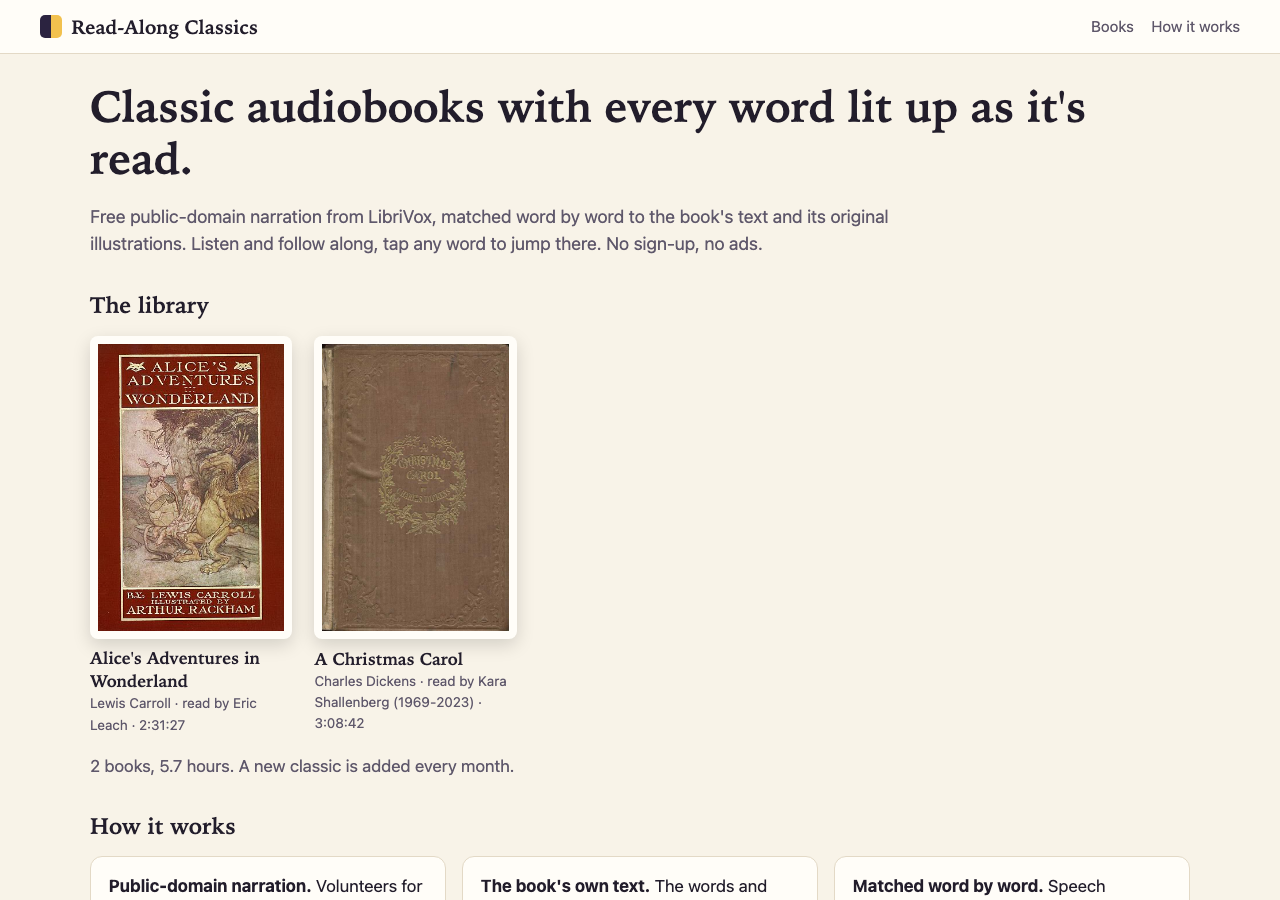
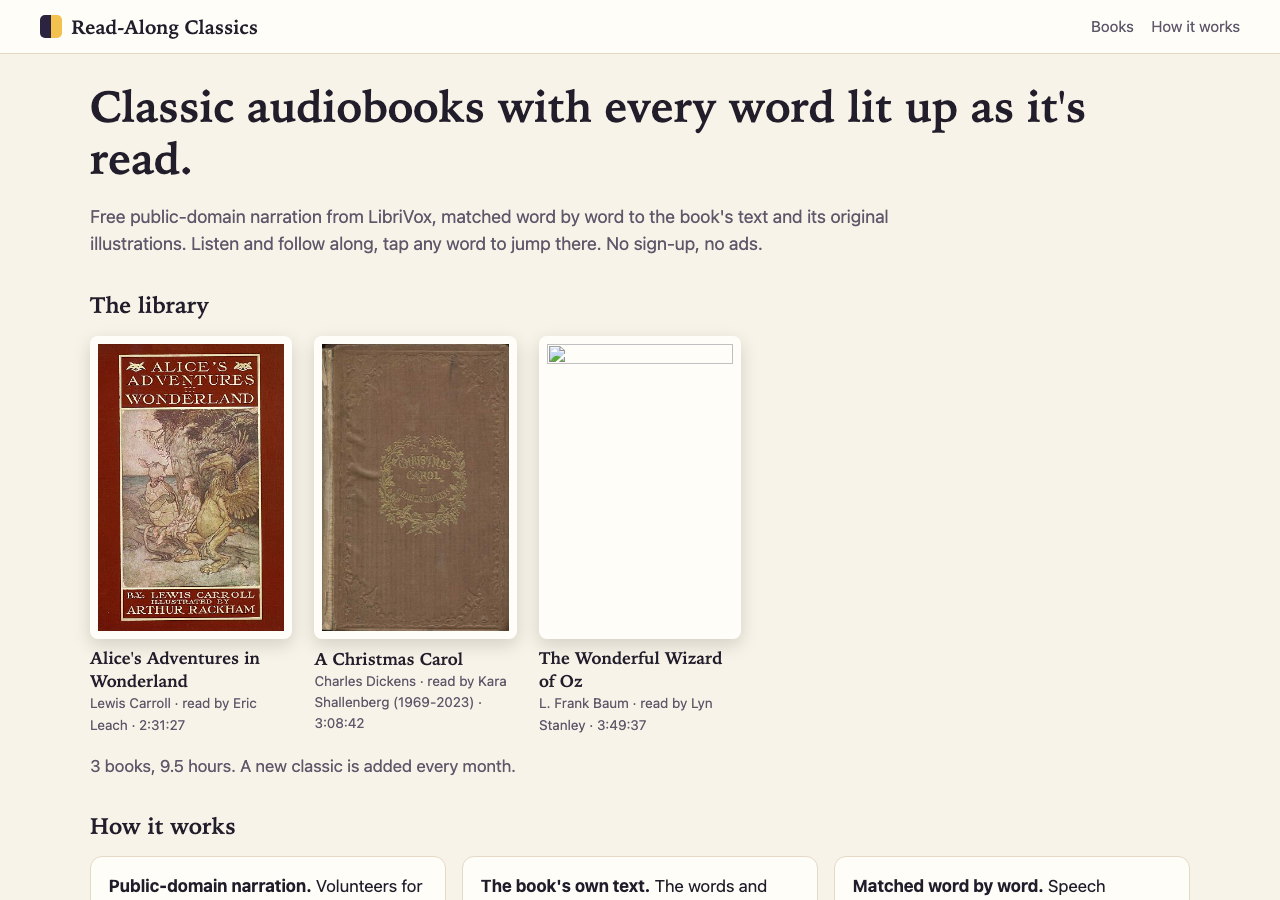
Oz: 1900 first-edition cover and Denslow credit; covers, illustrator credits and share cards come automatically for new books

Changed region(s): [[0.4062, 0.7156, 0.5625, 0.8089], [0.125, 0.84, 0.4062, 0.8711], [0.4062, 0.3733, 0.4688, 0.4044]]

diff --git a/pipeline/make_book.py b/pipeline/make_book.py
@@ -173,6 +173,15 @@ def make(entry, reuse=False, model_name="base.en"):
         return {"ok": False, "reason": problem}
     blocks = parse_blocks(raw)
     bw = book_words(blocks)
+    # A cover and an illustrator credit when the queue entry doesn't name them: the edition's own cover image (or
+    # its first illustration) and the "Illustrator:" line of the Gutenberg header.
+    if not entry.get("cover"):
+        imgs = [b["src"] for b in blocks if b["k"] == "img"]
+        entry = {**entry, "cover": next((x for x in imgs if "cover" in x.lower()), imgs[0] if imgs else None)}
+    if not entry.get("illustrator"):
+        m = re.search(r"Illustrator:\s*([^<\n]{3,80})", raw)
+        if m:
+            entry = {**entry, "illustrator": m.group(1).strip()}
     index = BookIndex([n for _, _, n in bw])
     workdir = tempfile.mkdtemp(prefix="readalong-")
     try:

diff --git a/OPERATIONS.md b/OPERATIONS.md
@@ -16,7 +16,7 @@ that moves the site; see key 1.
 | Weekly self-test | `.github/workflows/selftest.yml` | **Tuesdays 10:47 UTC**; by hand | the browser self-test **against the live site, including a few seconds of real playback from the Internet Archive**; every page, file and audio file; a staleness check that dispatches the monthly book job if the newest book is over 40 days old and books remain queued | Never changes the site. Opens or updates one `site-health` issue on failure; closes it on recovery. |
 | Keep-alive | `.github/scripts/keepalive.sh`, in both scheduled workflows | every scheduled run | re-enables workflows GitHub disabled for inactivity (never ones disabled by hand); empty commit if the last commit is 45+ days old | Pushes with `GITHUB_TOKEN` trigger no workflows, so it cannot loop. |
 
-The queue holds 14 books (two published at launch): about a year of monthly additions. Every job is safe to
+The queue holds 14 books (three published on launch day; the third, Oz, by the monthly job itself): about a year of monthly additions. Every job is safe to
 re-run: the book job skips books already published, and re-making a book reuses its saved transcripts.
 
 ## What to watch

diff --git a/STATE.md b/STATE.md
@@ -5,7 +5,8 @@
   pages with the original illustrations; a static site with a read-along player, embeds, open data; monthly,
   weekly and deploy workflows.
 - Published at launch: Alice's Adventures in Wonderland (Eric Leach; Rackham illustrations; 95% of words matched)
-  and A Christmas Carol (Kara Shallenberg; Leech illustrations). 12 more books queued.
+  and A Christmas Carol (Kara Shallenberg; Leech illustrations; 96%), made locally; The Wonderful Wizard of Oz
+  (Lyn Stanley; Denslow illustrations; 94%), made by the monthly job in Actions as its first proof. 11 more queued.
 - Verified: unit tests for the parser, aligner, rights and player logic; build tests; a headless-Chrome test of
   sync, seeking, illustrations, embeds and phone layout; live playback from the Internet Archive.
 - Known limits: timing is word-level from a small recognition model (occasional drift of a fraction of a second

diff --git a/LAUNCH.md b/LAUNCH.md
@@ -28,6 +28,6 @@ r/audiobooks, LibriVox's own forum (they like hearing how recordings are used). 
 
 ## 14-day calendar (machine)
 
-- Day 0: deploy with Alice and A Christmas Carol; IndexNow for every page; host-root rebuild.
+- Day 0: deploy with Alice, A Christmas Carol and The Wonderful Wizard of Oz; IndexNow for every page; host-root rebuild.
 - Weekly: live self-test with playback.
-- Day 9 of each month: next book from the queue (December: The Wonderful Wizard of Oz).
+- Day 9 of each month: next book from the queue (December: Through the Looking-Glass).
